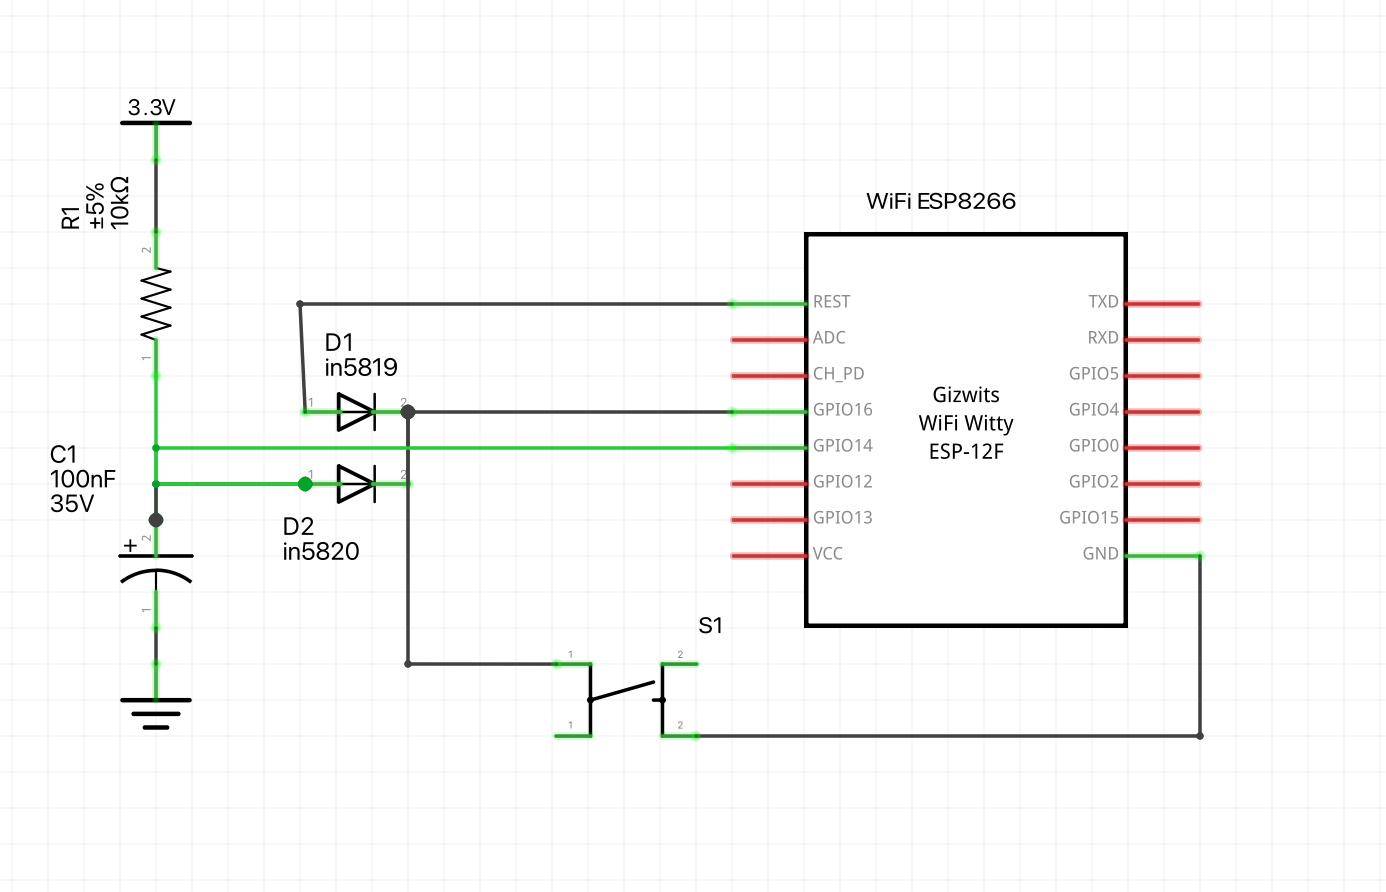
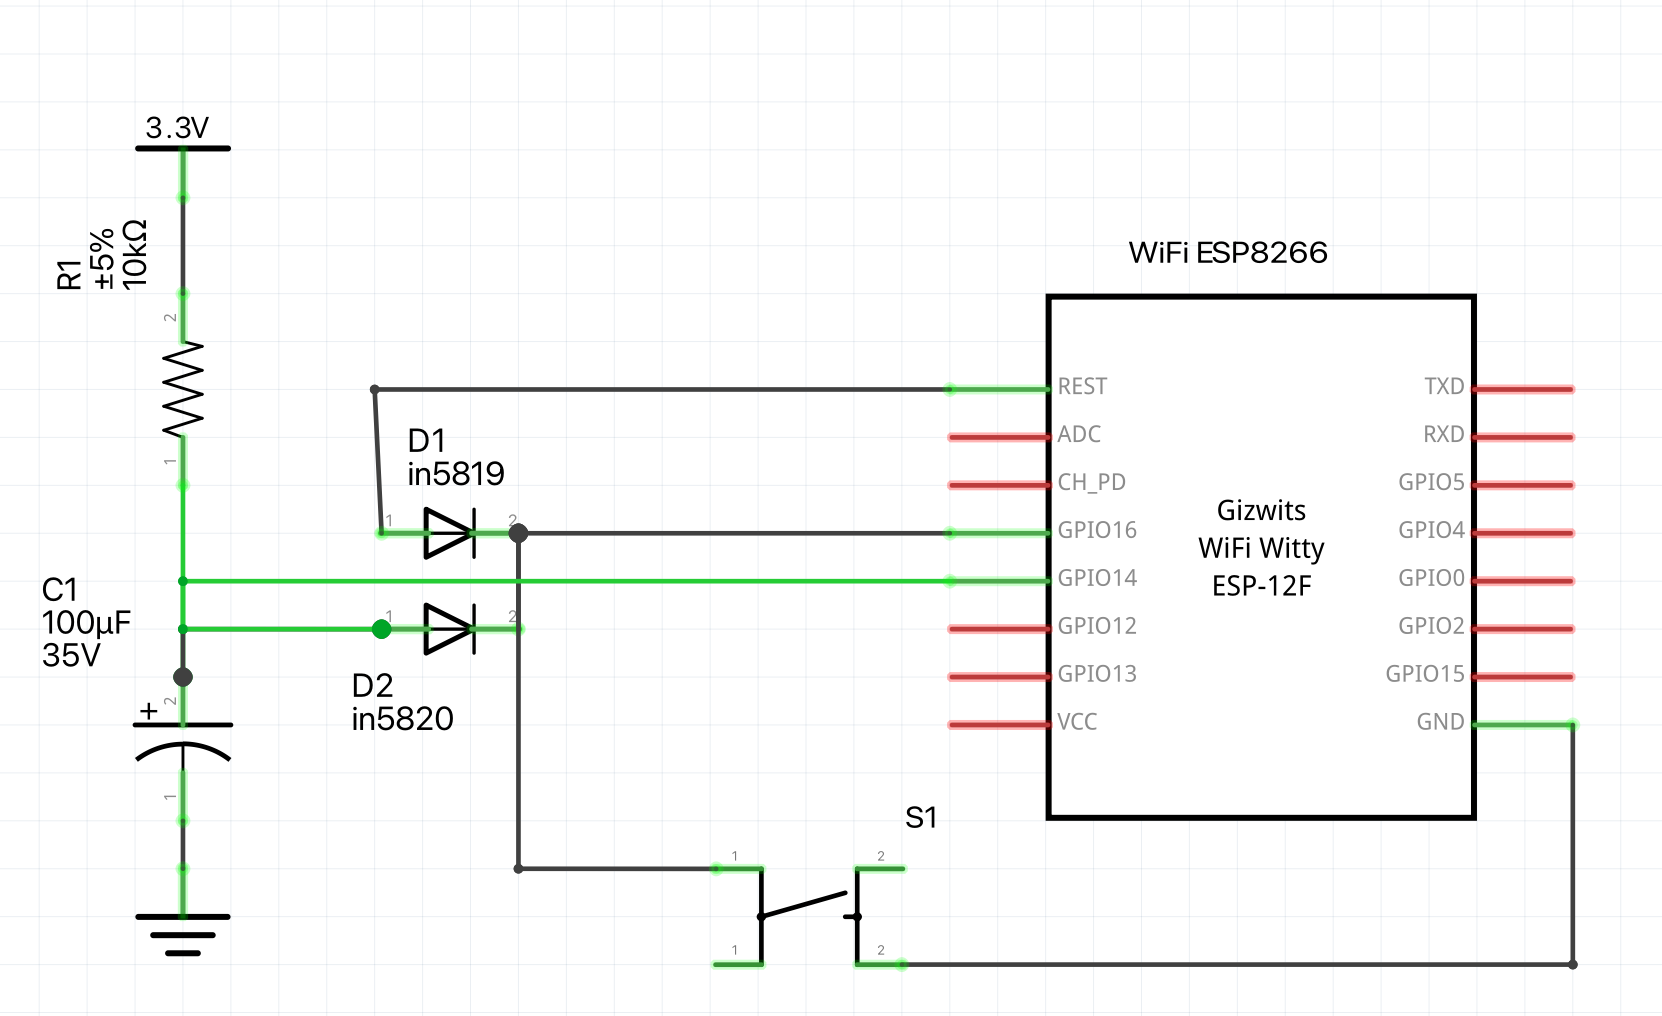
updating

Changed region(s): [[0.031, 0.0908, 0.9618, 0.9686], [0.2172, 0.6659, 0.2792, 0.7265], [0.4964, 0.6962, 0.5274, 0.7265]]

diff --git a/sensors/scale/compile_settings.h b/sensors/scale/compile_settings.h
@@ -35,8 +35,8 @@
 #endif
 
 //raspberry wifi
-#define DEFAULT_WIFI_SID "fabriziobox"
-#define DEFAULT_WIFI_PWD "laLunaeilSole"
+#define DEFAULT_WIFI_SID "camper"
+#define DEFAULT_WIFI_PWD "camper.44"
 
 //config wifi
 #define DEFAULT_AP_SID "sensor"

diff --git a/README.md b/README.md
@@ -56,7 +56,7 @@ nel file config_settings inserisci wifi ssid e password del raspberry e il nome 
 
 l'esp si accende se trova il raspberry manda i pesi e poi va in deepsleep e si risveglia dopo due minuti
 
-Per accenderlo e fare in modo che avvi l'hotspot premere il pulsante collegato come nello schema seguente, attenzione il condensatore non è da 100nF ma bensi da 100µF
+Per accenderlo e fare in modo che avvi l'hotspot premere il pulsante collegato come nello schema seguente
 
 Se si rimane collegati l'esp rimane acceso mentre se ci si scollega dal web l'esp dopo 5 minuti torna in deepsleep
 
